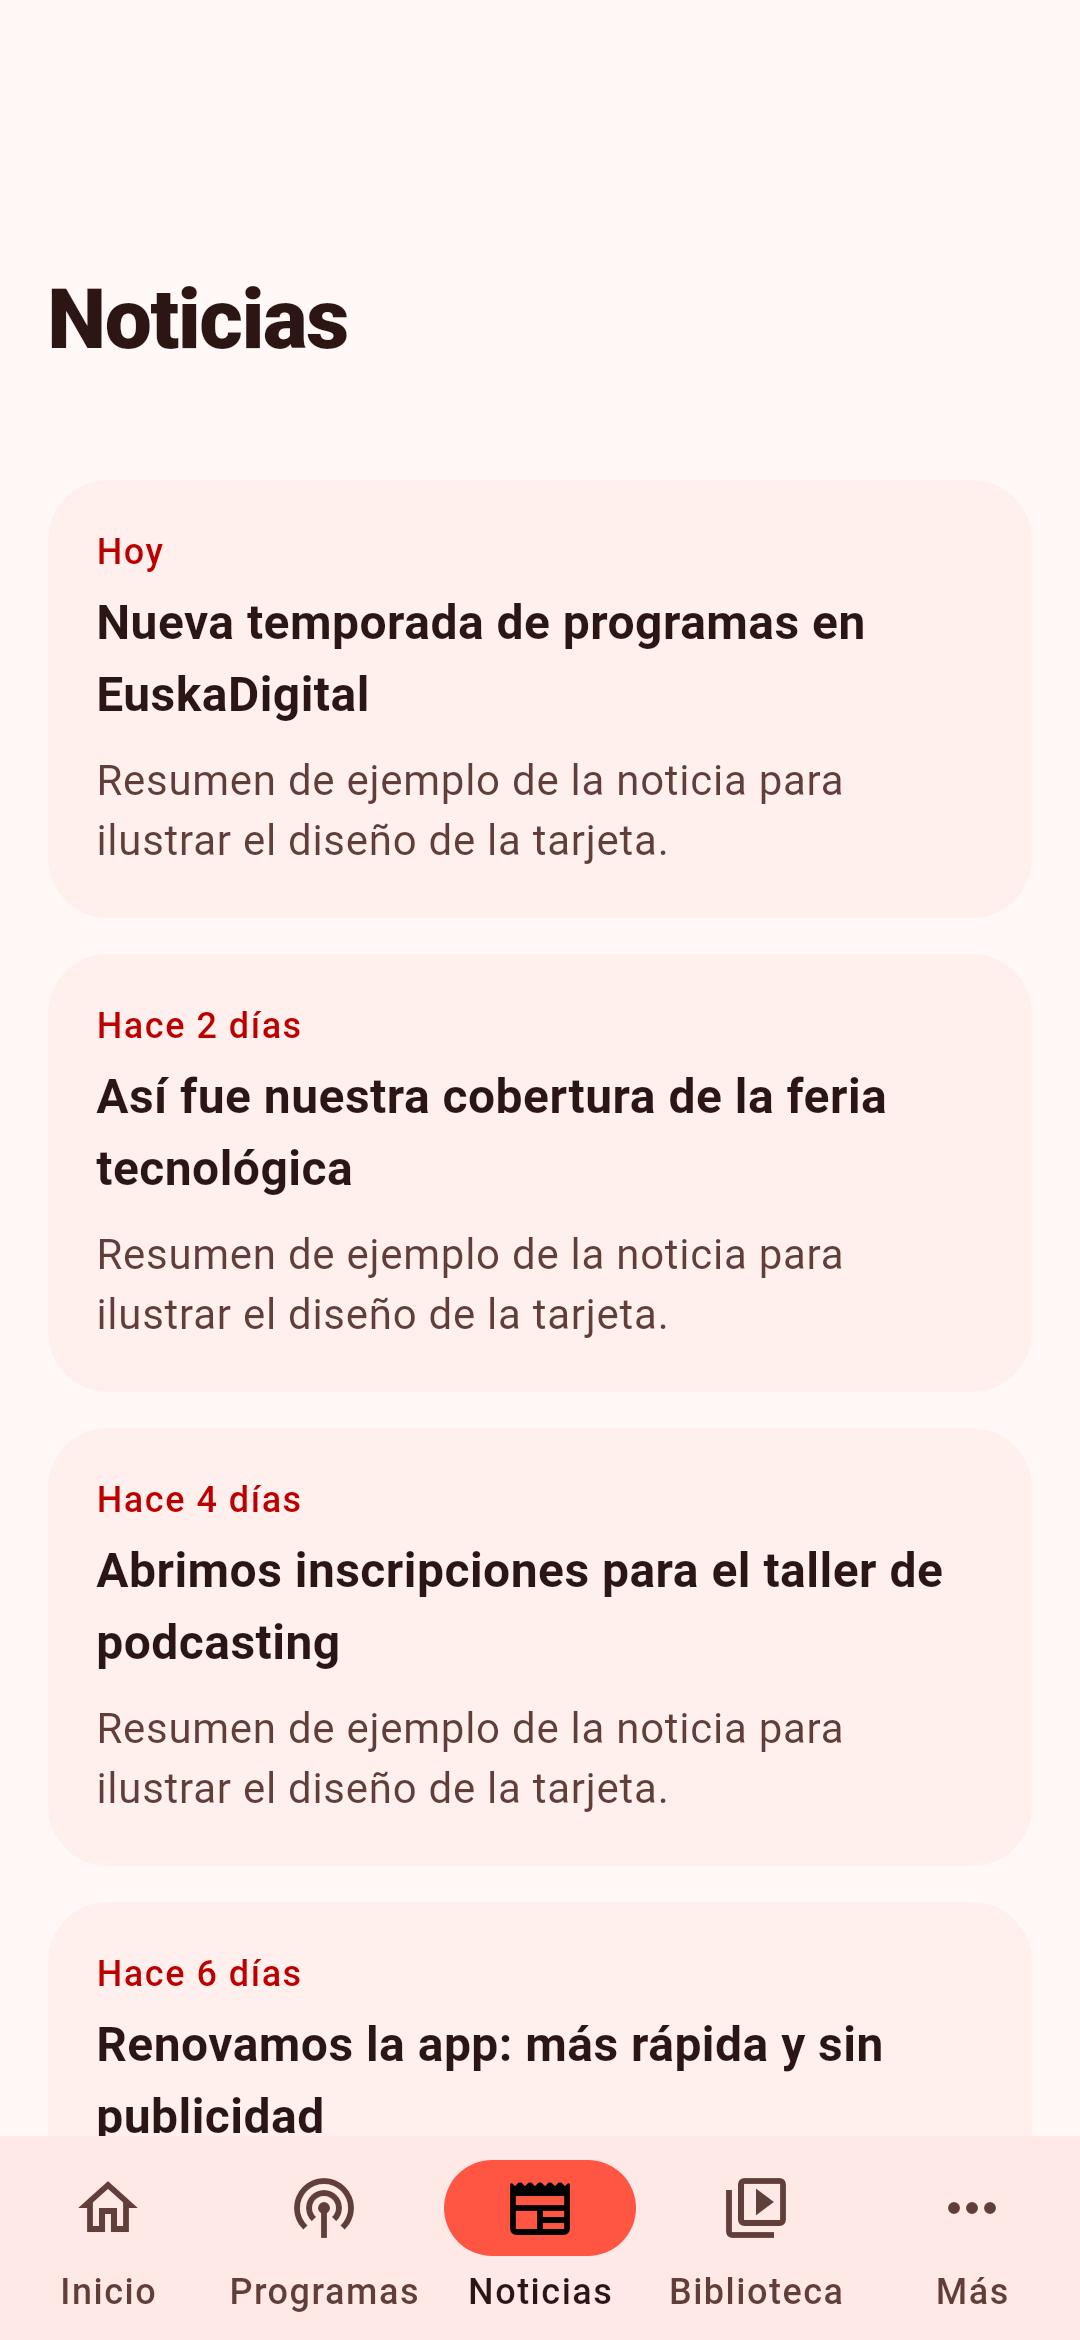
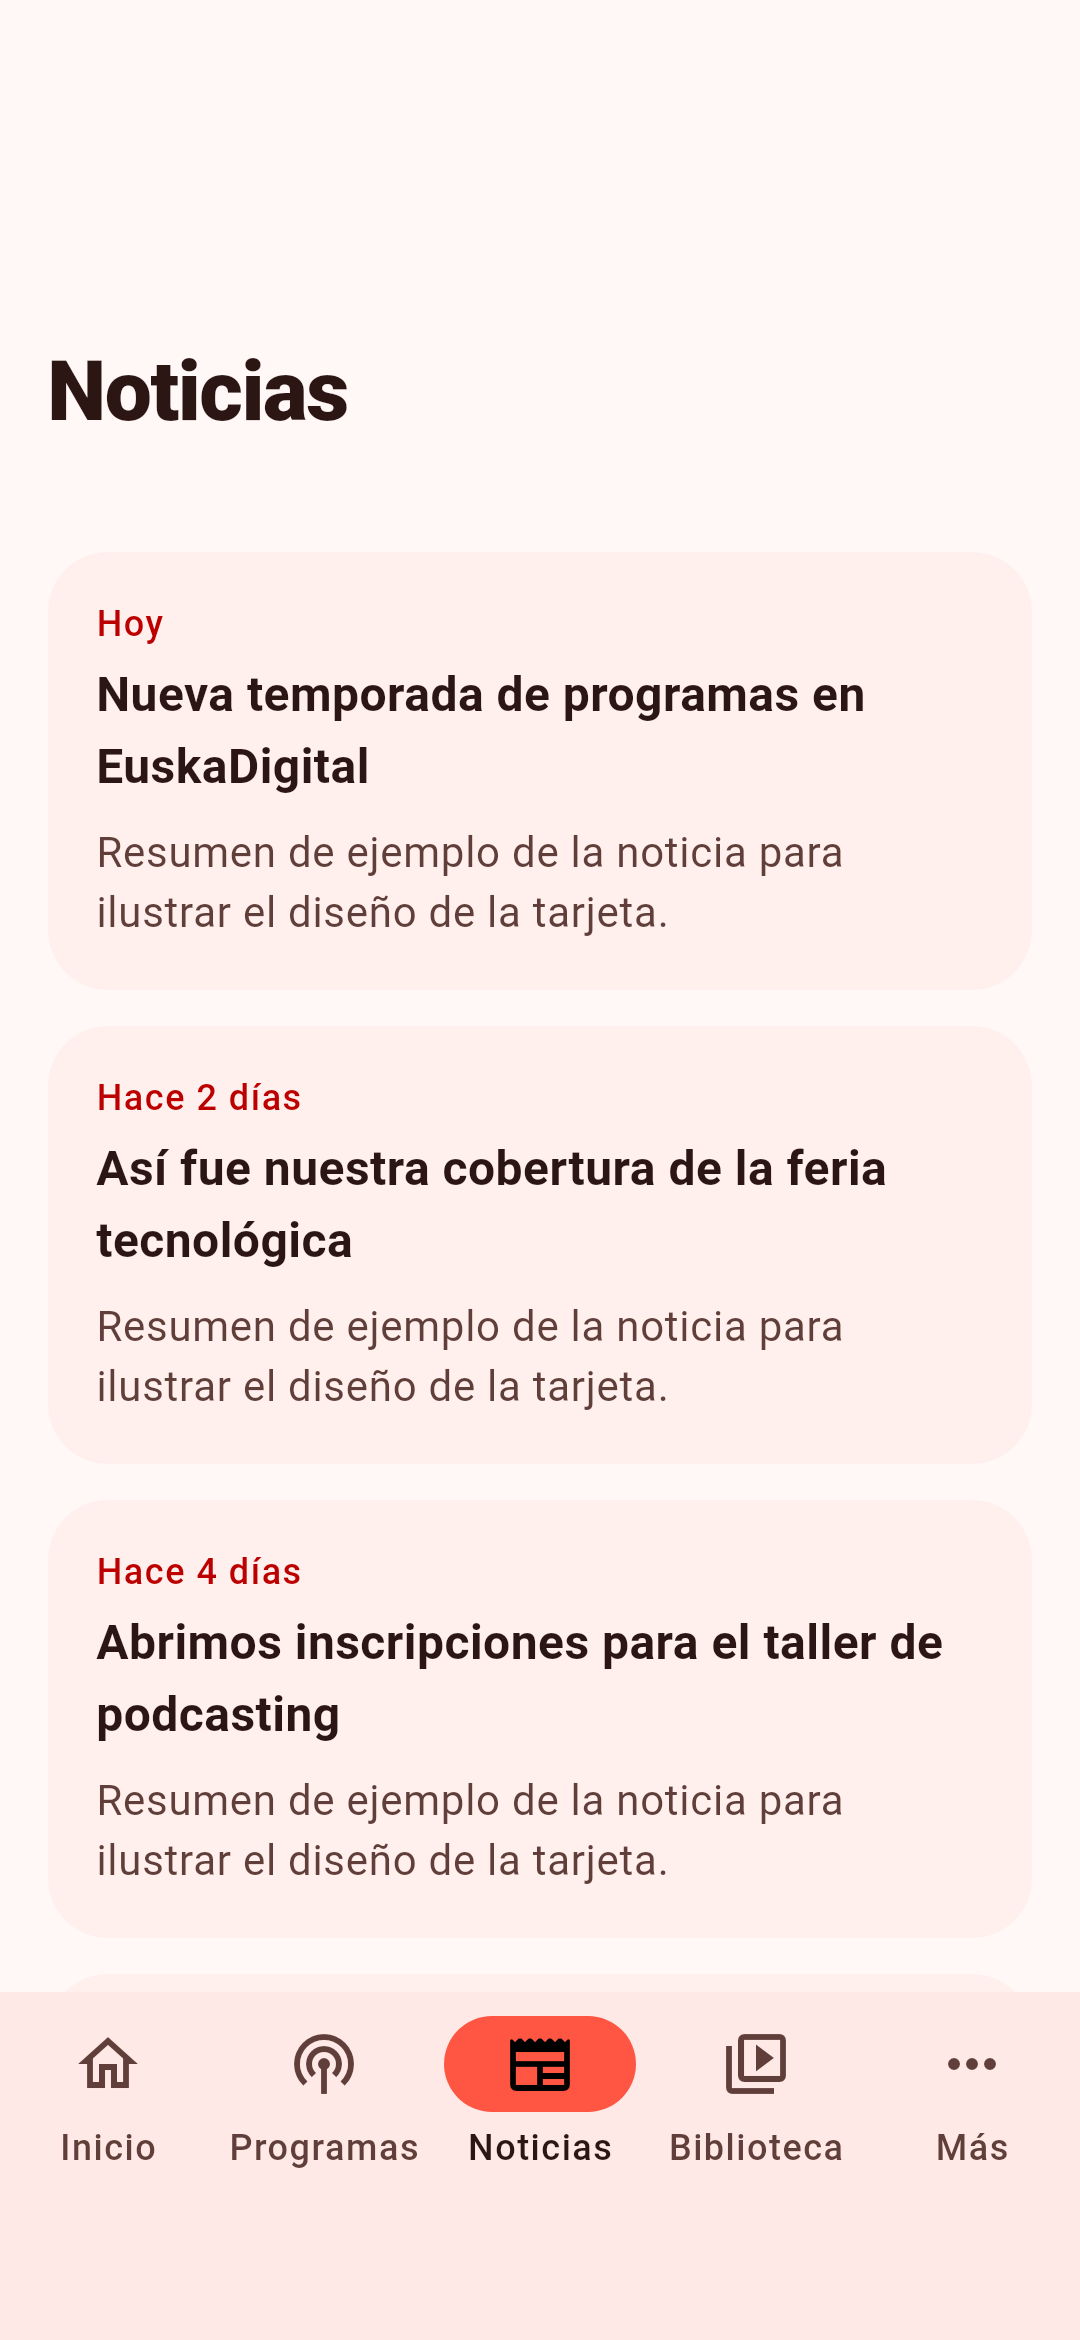
Portadas sin recortar y reproductor respetando la barra de Android
- Artwork muestra la imagen entera con su proporción original; los huecos
  se rellenan con la misma imagen desenfocada (listas de episodios,
  programas, reproductor y miniaturas de noticias)
- La hoja del reproductor deja sitio a la barra de navegación/gestos
- Capturas: simulan la barra del sistema y añaden un caso de portada
  apaisada

Claude-Session: https://claude.ai/code/session_016dLWWhA75jkREqA1LiHKKV

diff --git a/lib/ui/widgets/artwork.dart b/lib/ui/widgets/artwork.dart
@@ -1,13 +1,20 @@
+import 'dart:ui' as ui;
+
 import 'package:cached_network_image/cached_network_image.dart';
 import 'package:flutter/material.dart';
 
-/// Portada cuadrada con esquinas redondeadas. Usa la imagen remota si
-/// existe y, si no (o si falla), la imagen local de respaldo.
+/// Portada en un hueco cuadrado con esquinas redondeadas.
+///
+/// La imagen se muestra **entera, con su proporción original** (no se
+/// recorta). Si no es cuadrada, el espacio sobrante se rellena con una
+/// versión desenfocada de la propia imagen. Usa la imagen remota si existe
+/// y, si no (o si falla), la imagen local de respaldo.
 class Artwork extends StatelessWidget {
   const Artwork({
     super.key,
     this.url,
     this.fallbackAsset,
+    this.fallbackIcon = Icons.podcasts_rounded,
     this.size,
     this.radius = 12,
     this.heroTag,
@@ -15,6 +22,7 @@ class Artwork extends StatelessWidget {
 
   final String? url;
   final String? fallbackAsset;
+  final IconData fallbackIcon;
   final double? size;
   final double radius;
   final Object? heroTag;
@@ -22,19 +30,22 @@ class Artwork extends StatelessWidget {
   @override
   Widget build(BuildContext context) {
     final scheme = Theme.of(context).colorScheme;
-    Widget fallback() => fallbackAsset != null
-        ? Image.asset(fallbackAsset!, fit: BoxFit.cover, filterQuality: FilterQuality.medium)
-        : Container(
-            color: scheme.primaryContainer,
-            child: Icon(Icons.podcasts_rounded, color: scheme.onPrimaryContainer),
-          );
+
+    Widget iconBox() => Container(
+          color: scheme.primaryContainer,
+          child: Center(child: Icon(fallbackIcon, color: scheme.onPrimaryContainer)),
+        );
+
+    Widget fitted(ImageProvider provider) => _FittedImage(provider: provider, background: scheme.surfaceContainerHighest);
+
+    Widget fallback() => fallbackAsset != null ? fitted(AssetImage(fallbackAsset!)) : iconBox();
 
     Widget img = (url == null || url!.isEmpty)
         ? fallback()
         : CachedNetworkImage(
             imageUrl: url!,
-            fit: BoxFit.cover,
             fadeInDuration: const Duration(milliseconds: 200),
+            imageBuilder: (_, provider) => fitted(provider),
             placeholder: (_, _) => Container(color: scheme.surfaceContainerHighest),
             errorWidget: (_, _, _) => fallback(),
           );
@@ -46,5 +57,30 @@ class Artwork extends StatelessWidget {
     if (size != null) img = SizedBox.square(dimension: size, child: img);
     if (heroTag != null) img = Hero(tag: heroTag!, child: img);
     return img;
+  }
+}
+
+/// Imagen completa (`contain`) sobre un fondo desenfocado de sí misma.
+class _FittedImage extends StatelessWidget {
+  const _FittedImage({required this.provider, required this.background});
+  final ImageProvider provider;
+  final Color background;
+
+  @override
+  Widget build(BuildContext context) {
+    return Stack(
+      fit: StackFit.expand,
+      children: [
+        ColoredBox(color: background),
+        ImageFiltered(
+          imageFilter: ui.ImageFilter.blur(sigmaX: 12, sigmaY: 12, tileMode: TileMode.clamp),
+          child: Opacity(
+            opacity: 0.55,
+            child: Image(image: provider, fit: BoxFit.cover, filterQuality: FilterQuality.low),
+          ),
+        ),
+        Image(image: provider, fit: BoxFit.contain, filterQuality: FilterQuality.medium),
+      ],
+    );
   }
 }

diff --git a/lib/ui/widgets/news_card.dart b/lib/ui/widgets/news_card.dart
@@ -5,6 +5,7 @@ import '../../models/episode.dart';
 import '../../services/feed_parser.dart';
 import '../format.dart';
 import '../screens/article_screen.dart';
+import 'artwork.dart';
 
 /// Tarjeta de noticia. En modo compacto, imagen pequeña a la izquierda.
 class NewsCard extends StatelessWidget {
@@ -18,18 +19,6 @@ class NewsCard extends StatelessWidget {
     final scheme = theme.colorScheme;
     final excerpt = FeedParser.stripHtml(item.description ?? '').replaceAll('\n', ' ');
     void open() => Navigator.of(context).push(MaterialPageRoute(builder: (_) => ArticleScreen(item: item)));
-
-    final image = item.imageUrl == null
-        ? null
-        : CachedNetworkImage(
-            imageUrl: item.imageUrl!,
-            fit: BoxFit.cover,
-            placeholder: (_, _) => Container(color: scheme.surfaceContainerHighest),
-            errorWidget: (_, _, _) => Container(
-              color: scheme.surfaceContainerHighest,
-              child: Icon(Icons.newspaper_rounded, color: scheme.onSurfaceVariant),
-            ),
-          );
 
     final texts = Column(
       crossAxisAlignment: CrossAxisAlignment.start,
@@ -58,10 +47,8 @@ class NewsCard extends StatelessWidget {
                 padding: const EdgeInsets.all(12),
                 child: Row(
                   children: [
-                    if (image != null) ...[
-                      ClipRRect(
-                          borderRadius: BorderRadius.circular(12),
-                          child: SizedBox.square(dimension: 80, child: image)),
+                    if (item.imageUrl != null) ...[
+                      Artwork(url: item.imageUrl, fallbackIcon: Icons.newspaper_rounded, size: 80),
                       const SizedBox(width: 14),
                     ],
                     Expanded(child: texts),

diff --git a/test/screenshots/screenshots_test.dart b/test/screenshots/screenshots_test.dart
@@ -4,6 +4,7 @@
 @Tags(['screenshots'])
 library;
 
+import 'dart:convert';
 import 'dart:io';
 
 import 'package:euskadigital/config/app_config.dart';
@@ -144,6 +145,8 @@ void main() {
   Future<void> pumpApp(WidgetTester tester, ThemeMode mode) async {
     tester.view.physicalSize = const Size(1080, 2340);
     tester.view.devicePixelRatio = 3;
+    tester.view.padding = const FakeViewPadding(top: 24 * 3, bottom: 48 * 3);
+    tester.view.viewPadding = const FakeViewPadding(top: 24 * 3, bottom: 48 * 3);
     addTearDown(tester.view.reset);
     await tester.pumpWidget(app(mode));
     await settle(tester);
@@ -209,6 +212,23 @@ void main() {
     await pumpApp(tester, ThemeMode.light);
     await tester.tap(find.text('Más').last);
     await shot(tester, '07_mas');
+  });
+
+  testWidgets('lista con portada apaisada (sin recortar)', (tester) async {
+    // Misma configuración, pero el primer programa usa como portada de
+    // respaldo la imagen apaisada del directo (500x334).
+    final raw = jsonDecode((await tester.runAsync(() => rootBundle.loadString('assets/config/app_config.json')))!);
+    final first = raw['programGroups'][0]['programs'][0];
+    first['fallbackImage'] = 'assets/images/live_cover.png';
+    config = AppConfig.fromJson(raw);
+    feeds = FeedRepository(config);
+    final p = config.allPrograms.first;
+    feeds.seed(p.id, _sample(p, 0));
+    await pumpApp(tester, ThemeMode.light);
+    await tester.tap(find.text('Programas').last);
+    await settle(tester);
+    await tester.tap(find.text(p.title).first);
+    await shot(tester, '08_portada_apaisada');
   });
 }
 

diff --git a/lib/ui/screens/player_screen.dart b/lib/ui/screens/player_screen.dart
@@ -16,7 +16,12 @@ class PlayerScreen extends StatelessWidget {
         isScrollControlled: true,
         useSafeArea: true,
         showDragHandle: true,
-        builder: (_) => const FractionallySizedBox(heightFactor: 1, child: PlayerScreen()),
+        // SafeArea inferior: deja sitio a la barra de navegación / gestos de
+        // Android (la app se dibuja de borde a borde).
+        builder: (_) => const FractionallySizedBox(
+          heightFactor: 1,
+          child: SafeArea(top: false, child: PlayerScreen()),
+        ),
       );
 
   @override
